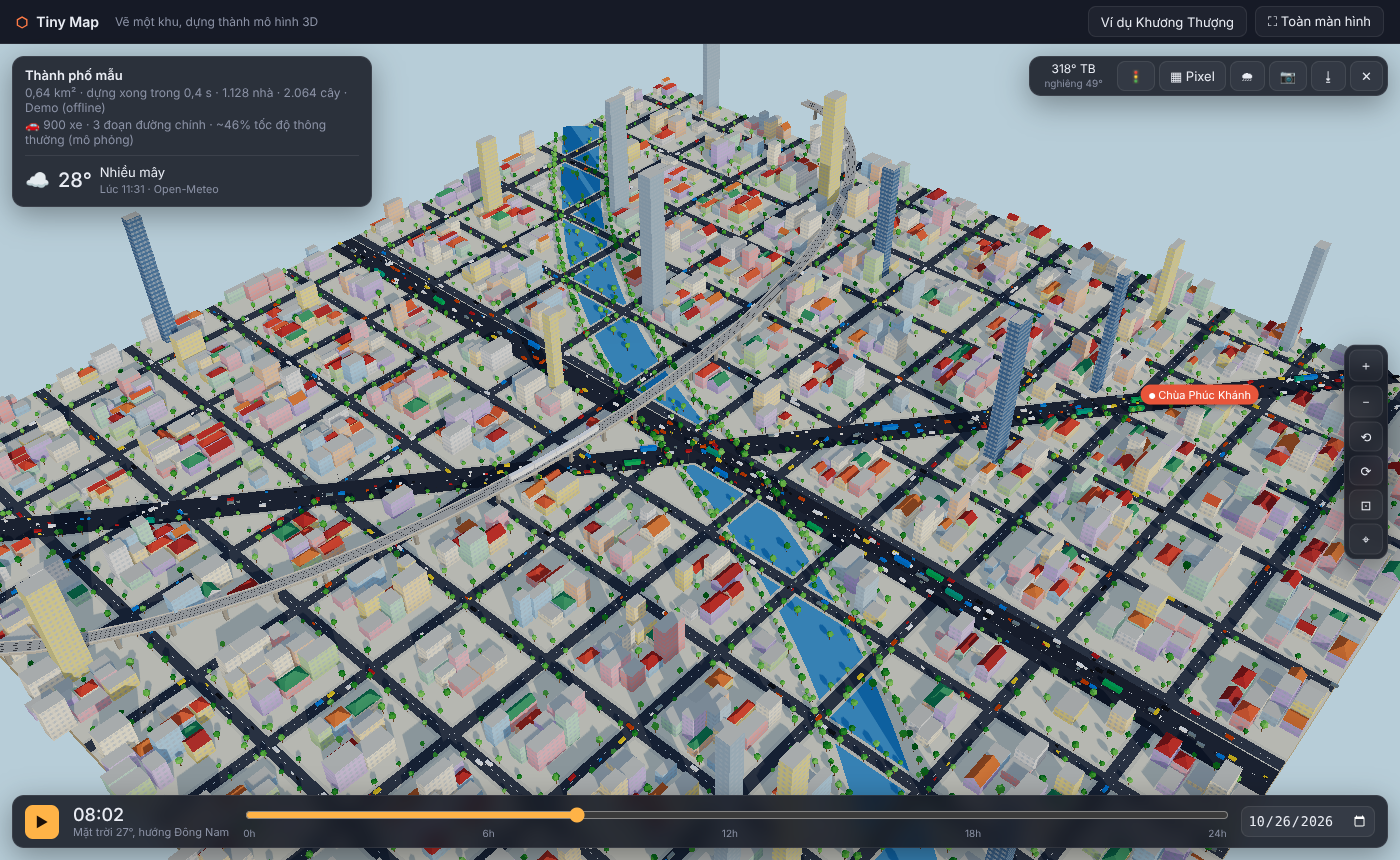
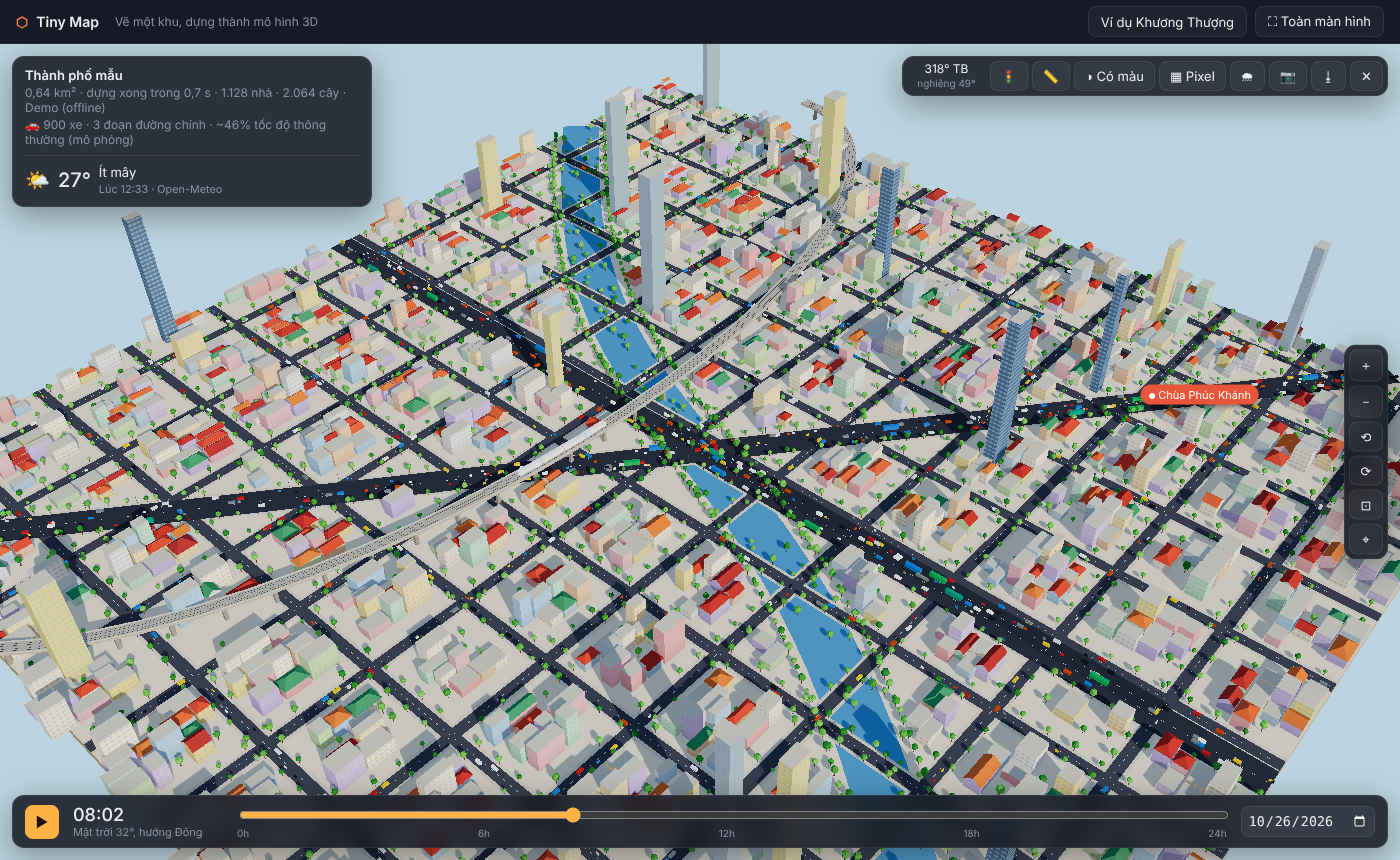
docs: README for v0.2 — data sources, height grids, architecture, screenshots
Claude-Session: https://claude.ai/code/session_01E5jfWvR3tqTUZPAU2sXftx

diff --git a/README.md b/README.md
@@ -10,59 +10,129 @@
 
 ## Tính năng
 
-- **Chọn vùng**: tìm địa điểm (Nominatim), kéo chuột vẽ hình chữ nhật, hoặc chọn nhanh 800 m quanh tâm bản đồ. Vùng được lưu vào URL (`#bbox=…`) để chia sẻ.
-- **Dữ liệu**: nhà (chiều cao từ `height` / `building:levels`, nếu thiếu thì ước lượng theo loại nhà), đường theo cấp & số làn, cầu vượt, đường sắt trên cao, sông hồ (kể cả multipolygon), công viên, cây, địa điểm nổi bật.
-- **Dựng 3D** (Three.js): nhà màu pastel kiểu nhà ống, mái dốc/mái chóp cho nhà thấp, cửa sổ sinh bằng shader (không cần texture), vỉa hè, vạch kẻ đường, trụ cầu, hàng cây ven đường, đèn đường.
-- **Thời gian**: thanh trượt 24h + chọn ngày; vị trí mặt trời tính theo thiên văn cho đúng toạ độ; tự đổi sang ánh trăng, cửa sổ sáng đèn, đèn xe và bloom khi trời tối. Nút ▶ tua nhanh 1 giờ/giây.
-- **Giao thông (mô phỏng)**: xe máy, ô tô, xe buýt chạy theo đúng làn bên phải, mật độ đổi theo giờ cao điểm; lớp 🚦 tô màu tốc độ từng đoạn đường chính; tàu chạy trên các tuyến ray.
-- **Thời tiết thực** từ Open‑Meteo (không cần API key): nhiệt độ, mây, tự bật mưa.
-- **Xuất**: ảnh PNG, mô hình `.glb` (mở được bằng Blender, three.js editor…).
-- **Demo offline**: thành phố sinh ngẫu nhiên (sông, cầu vượt, metro) khi không có mạng — thêm `?demo` vào URL.
+**Chọn vùng**
+- Mở app sẽ tự lấy vị trí hiện tại. Không lấy được thì về mặc định Én Nam – 101 Châu Thị Hoá (TP.HCM). Nút 📍 để lấy lại vị trí.
+- Tìm địa điểm (Nominatim), kéo chuột vẽ hình chữ nhật, hoặc chọn nhanh 800 m quanh tâm bản đồ. Vùng được lưu vào URL (`#bbox=…`) để chia sẻ.
+
+**Dữ liệu** (xem [Nguồn dữ liệu](#nguồn-dữ-liệu))
+- Footprint nhà gộp từ **OpenStreetMap** và **Overture Maps** (Google/Microsoft ML buildings). Ở nhiều khu của VN, Overture có nhiều nhà hơn OSM hàng chục lần.
+- **Chiều cao** ưu tiên theo thứ tự: tag OSM > **Google Open Buildings 2.5D** (trung vị trong footprint) > số tầng Overture > ước lượng theo hình dạng footprint.
+- Mỗi nhà ghi lại nguồn của footprint và chiều cao. Nút 📏 tô màu nhà theo nguồn chiều cao.
+- Ngoài nhà còn có đường theo cấp & số làn, cầu vượt, đường sắt trên cao, sông hồ, công viên, cây, địa điểm nổi bật.
+
+**Dựng 3D** (Three.js, chạy trong Web Worker)
+- Mái dốc, mái chóp, mái chùa hai tầng và mái vòm được đặt theo hình chữ nhật bao nhỏ nhất của footprint. Nhà xưởng có mái tôn thấp. Đọc được `building:part`, `roof:*`, `building:colour/material` (Simple 3D Buildings).
+- Kiến trúc mẫu Việt Nam:
+  - nhà ống/shophouse có ban công ở mặt tiền giáp đường, tum thang và bồn nước inox trên sân thượng;
+  - chung cư/cao ốc có khối đế và tháp lùi vào;
+  - mặt kính, gạch, kim loại thể hiện bằng shader.
+- Cửa sổ sinh bằng shader (không cần texture). Có vỉa hè, vạch kẻ đường, trụ cầu, hàng cây ven đường, đèn đường.
+- **Bấm vào một nhà** để xem tên, loại, số tầng, chiều cao, nguồn dữ liệu, kèm link sửa hoặc vẽ thêm trên OpenStreetMap.
+
+**Hiển thị**
+- Chế độ **Có màu / Đơn sắc** (phong cách mô hình kiến trúc, đèn đêm vẫn giữ màu ấm). Lựa chọn được ghi nhớ, đặt được qua URL `?style=mono`.
+- Chế độ pixel.
+- Thanh thời gian 24h + chọn ngày. Mặt trời đặt đúng vị trí thiên văn theo toạ độ. Ban đêm có ánh trăng, cửa sổ và đèn xe sáng, bloom.
+- **Giao thông (mô phỏng)**: xe máy, ô tô, xe buýt chạy theo làn bên phải, mật độ đổi theo giờ cao điểm. Lớp 🚦 tô màu tốc độ. Có tàu chạy trên ray.
+- **Thời tiết thực** từ Open‑Meteo: nhiệt độ, mây, mưa.
+
+**Hiệu năng**
+- Dữ liệu tải và mô hình dựng trong Web Worker, main thread không bị đơ.
+- Bộ nhớ đệm IndexedDB (OSM 7 ngày, Overture 30 ngày, thời tiết 15 phút).
+- Tiến độ hiện theo số byte tải thật. Có nút huỷ.
+- Bóng đổ chỉ render lại khi cần. Pixel ratio tự hạ khi FPS thấp. Chi tiết nhỏ chỉ hiện khi zoom gần (LOD).
+- Benchmark tự động trong CI.
+
+**Xuất**: ảnh PNG, mô hình `.glb` (theo chế độ màu đang chọn).
+
+**Demo offline**: thêm `?demo` vào URL để dựng thành phố sinh ngẫu nhiên.
+
+| Ngã Tư Sở (OSM + Overture + Google 2.5D) | Nguồn chiều cao 📏 | Đơn sắc |
+| --- | --- | --- |
+| ![ngatuso](docs/ngatuso.png) | ![sources](docs/height-sources.png) | ![mono](docs/mono.png) |
+
+| Én Nam – Q.8, TP.HCM | Thông tin toà nhà | Ban đêm |
+| --- | --- | --- |
+| ![ennam](docs/ennam.png) | ![info](docs/building-info.png) | ![night](docs/night.png) |
 
 ## Chạy thử
 
 ```bash
 npm install
-npm run dev        # http://localhost:5173
-npm test           # unit test (parser OSM, mặt trời, phép chiếu…)
-npm run build      # bản tĩnh trong dist/, deploy lên bất kỳ static host nào
+npm run dev        # http://localhost:5173 — có thêm /api/heights tính chiều cao cho mọi vùng ở VN
+npm test           # unit test
+npm run build      # bản tĩnh trong dist/
+npm run bench      # benchmark (cần `npm run preview` đang chạy ở cổng 4173)
 ```
 
-Yêu cầu Node 20+ và trình duyệt hỗ trợ WebGL2.
+Yêu cầu Node 22.18+ (CLI chiều cao chạy thẳng file `.ts`) và trình duyệt hỗ trợ WebGL2.
+
+## Nguồn dữ liệu
+
+| Nguồn | Dùng cho | Cách truy cập | Giấy phép |
+| --- | --- | --- | --- |
+| [OpenStreetMap](https://www.openstreetmap.org/) qua Overpass | nhà, đường, sông, cây… | trình duyệt, cache 7 ngày | ODbL |
+| [Overture Maps](https://docs.overturemaps.org/guides/buildings) `buildings.pmtiles` | bù footprint | PMTiles (range request, CORS) | ODbL |
+| [Google Open Buildings 2.5D Temporal](https://sites.research.google/gr/open-buildings/temporal/) | chiều cao nhà | GeoTIFF công khai, **không có CORS** → tiền xử lý | CC BY 4.0 |
+| [Open‑Meteo](https://open-meteo.com/) | thời tiết | trình duyệt | CC BY 4.0 |
+
+### Lưới chiều cao Google 2.5D
+
+GeoTIFF của Google không cho trình duyệt đọc trực tiếp vì không có CORS. Vì vậy chiều cao được trích sẵn thành lưới 2 m (`uint16`, đơn vị dm):
+
+```bash
+# Sinh lưới cho một vùng (chỉ phủ Việt Nam — chỉ mục tile ở tools/data/)
+npm run heights -- --id hoankiem --name "Hồ Hoàn Kiếm" --bbox 21.024,105.848,21.034,105.858
+```
+
+File được ghi vào `public/heights/` và tự thêm vào `index.json`. Repo kèm sẵn lưới cho **Ngã Tư Sở** và **Én Nam**.
+
+Cách app tìm lưới chiều cao cho một vùng:
+- `npm run dev`: endpoint `/api/heights` tính lưới cho vùng bất kỳ.
+- Bản tĩnh: đặt `VITE_HEIGHTS_API=https://…/api/heights` trỏ tới một proxy cùng API (#4).
+- Không có lưới: dùng heuristic theo hình dạng footprint.
 
 ## Kiến trúc
 
 ```
 src/
-  main.ts              # UI: luồng chọn vùng → tải → dựng → điều khiển
-  ui/MapView.ts        # bản đồ 2D MapLibre + công cụ vẽ hình chữ nhật
-  data/osm.ts          # truy vấn Overpass + chuyển OSM → CityData
-  data/demo.ts         # thành phố mẫu offline
-  data/rings.ts        # ghép way của multipolygon thành vòng kín
-  geo/projection.ts    # phép chiếu cục bộ lon/lat → mét (x đông, z nam)
-  scene/CityScene.ts   # renderer, camera, ánh sáng, bloom, xuất GLB
-  scene/buildings.ts   # tường + mái gộp thành 1 mesh, shader cửa sổ
-  scene/roads.ts       # đường, vỉa hè, vạch kẻ, cầu vượt, đường sắt
-  scene/landscape.ts   # nền, nước, cây xanh, đèn đường
-  scene/traffic.ts     # mô phỏng xe/tàu, lớp màu giao thông
-  scene/sun.ts         # vị trí mặt trời + bảng màu bầu trời
-  services/            # Nominatim (tìm kiếm), Open‑Meteo (thời tiết)
+  main.ts                 # UI: chọn vùng → tải → dựng → điều khiển
+  config.ts               # vị trí mặc định, vùng ví dụ
+  services/location.ts    # vị trí hiện tại + fallback
+  ui/MapView.ts           # bản đồ 2D MapLibre + vẽ hình chữ nhật
+  data/loader.ts          # pipeline: OSM ∥ Overture ∥ chiều cao → ghép
+  data/osm.ts             # Overpass (stream, rate limit) + parser
+  data/overture.ts        # Overture PMTiles → footprint
+  data/heights.ts         # lưới chiều cao Google 2.5D
+  data/enrich.ts          # ghép footprint, gán chiều cao, thống kê nguồn
+  data/buildings.ts       # tag → Building: kiến trúc mẫu, heuristic, kiểu mái
+  data/cache.ts           # IndexedDB (TTL + LRU)
+  worker/                 # Web Worker: tải dữ liệu + dựng hình, truyền buffer
+  scene/CityScene.ts      # renderer, camera, ánh sáng, bloom, chọn nhà, xuất GLB
+  scene/buildings.ts      # tường + mái gộp 1 mesh, shader cửa sổ/vật liệu/chọn
+  scene/roofs.ts          # OBB, mái dốc/chóp/vòm/chùa
+  scene/details.ts        # ban công, tum thang, bồn nước (instanced, LOD)
+  scene/colorMode.ts      # Có màu / Đơn sắc
+  scene/roads.ts …        # đường, cầu, ray; landscape.ts; traffic.ts; sun.ts
+tools/
+  gob-heights.mjs         # CLI trích lưới chiều cao
+  gob-index.mjs           # dựng lại chỉ mục tile Google 2.5D cho VN
+  overture-spike.mjs      # đo độ phủ Overture tại một điểm
+bench/                    # benchmark + ngân sách hiệu năng cho CI
 ```
 
-Mọi thứ chạy phía client, không cần server. Mỗi lớp (nhà, đường, cây…) được gộp thành một vài draw call (merged geometry / InstancedMesh) nên vùng ~1 km² với vài nghìn nhà vẫn mượt.
+## Lộ trình
 
-## Lộ trình (rất hoan nghênh đóng góp)
+Kế hoạch và thảo luận nằm trong [issue #1](https://github.com/danny-exnodes/3d-map/issues/1). Backlog hiện tại:
 
-- [ ] Ghép thêm **Overture Maps / Open Buildings** để bù nhà thiếu trên OSM (đọc GeoParquet/PMTiles qua HTTP range).
-- [ ] Dữ liệu giao thông thực (nguồn mở hoặc API có key do người dùng cung cấp) thay cho mô phỏng.
-- [ ] Địa hình (DEM) cho vùng đồi núi.
-- [ ] Chạy dựng hình trong Web Worker để không giật UI với vùng lớn.
-- [ ] Cache dữ liệu Overpass trong IndexedDB.
-- [ ] Mái nhà phức tạp hơn (straight skeleton) cho đa giác bất kỳ, `building:part`.
-- [ ] Đa ngôn ngữ (hiện UI tiếng Việt).
+- [ ] Proxy CORS để bản tĩnh lấy được chiều cao cho mọi vùng (#4)
+- [ ] Lớp so sánh ảnh thực Google Photorealistic 3D Tiles (#6)
+- [ ] Dữ liệu giao thông thực (#11)
+- [ ] Chia tile + LOD cho vùng lớn, địa hình (DEM), straight skeleton cho mái phức tạp
 
 ## Dữ liệu & giấy phép
 
 - Mã nguồn: [MIT](LICENSE).
-- Dữ liệu bản đồ © [OpenStreetMap contributors](https://www.openstreetmap.org/copyright) (ODbL). Nền bản đồ © [CARTO](https://carto.com/attributions). Thời tiết: [Open‑Meteo](https://open-meteo.com/) (CC BY 4.0).
+- Dữ liệu bản đồ © [OpenStreetMap contributors](https://www.openstreetmap.org/copyright) (ODbL). Footprint bổ sung: [Overture Maps Foundation](https://overturemaps.org/) (ODbL). Chiều cao: [Google Open Buildings 2.5D Temporal](https://sites.research.google/gr/open-buildings/temporal/) (CC BY 4.0) — các file trong `public/heights/` là dữ liệu phái sinh, cùng giấy phép CC BY 4.0. Nền bản đồ © [CARTO](https://carto.com/attributions). Thời tiết: [Open‑Meteo](https://open-meteo.com/) (CC BY 4.0).
+- App hiển thị ghi công đúng các nguồn đã dùng cho từng vùng.
 - Hãy tôn trọng chính sách sử dụng của các dịch vụ công cộng: [Overpass](https://wiki.openstreetmap.org/wiki/Overpass_API#Public_Overpass_API_instances), [Nominatim](https://operations.osmfoundation.org/policies/nominatim/) (≤ 1 request/giây). Khi triển khai lượng truy cập lớn, nên tự host Overpass/Nominatim.
